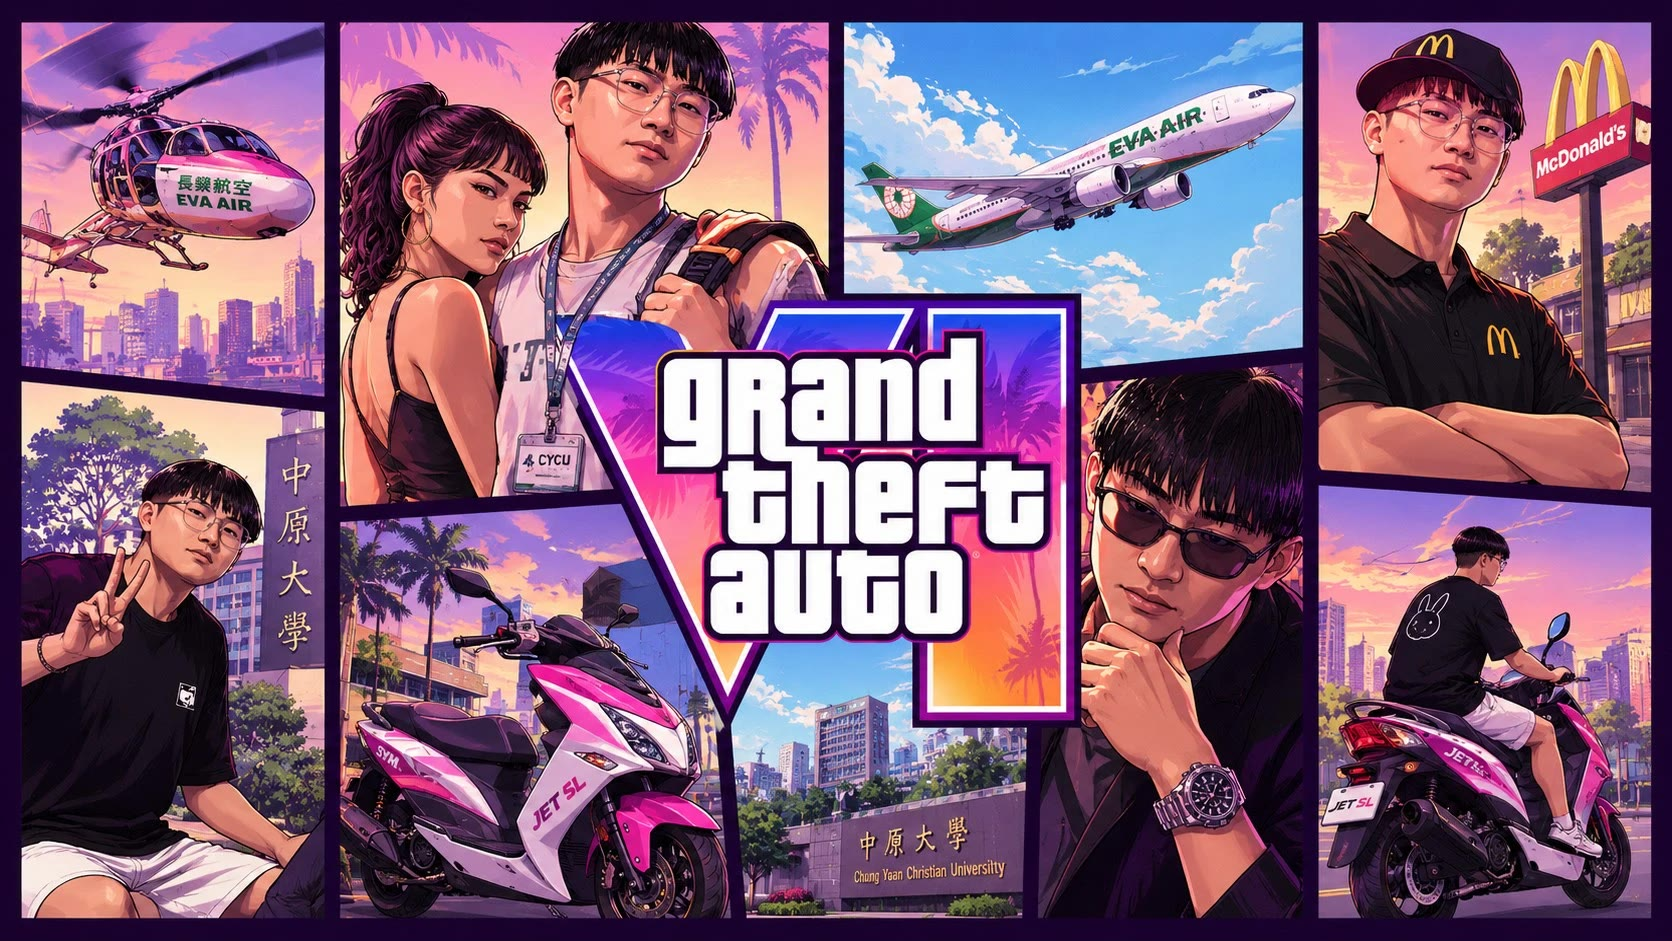
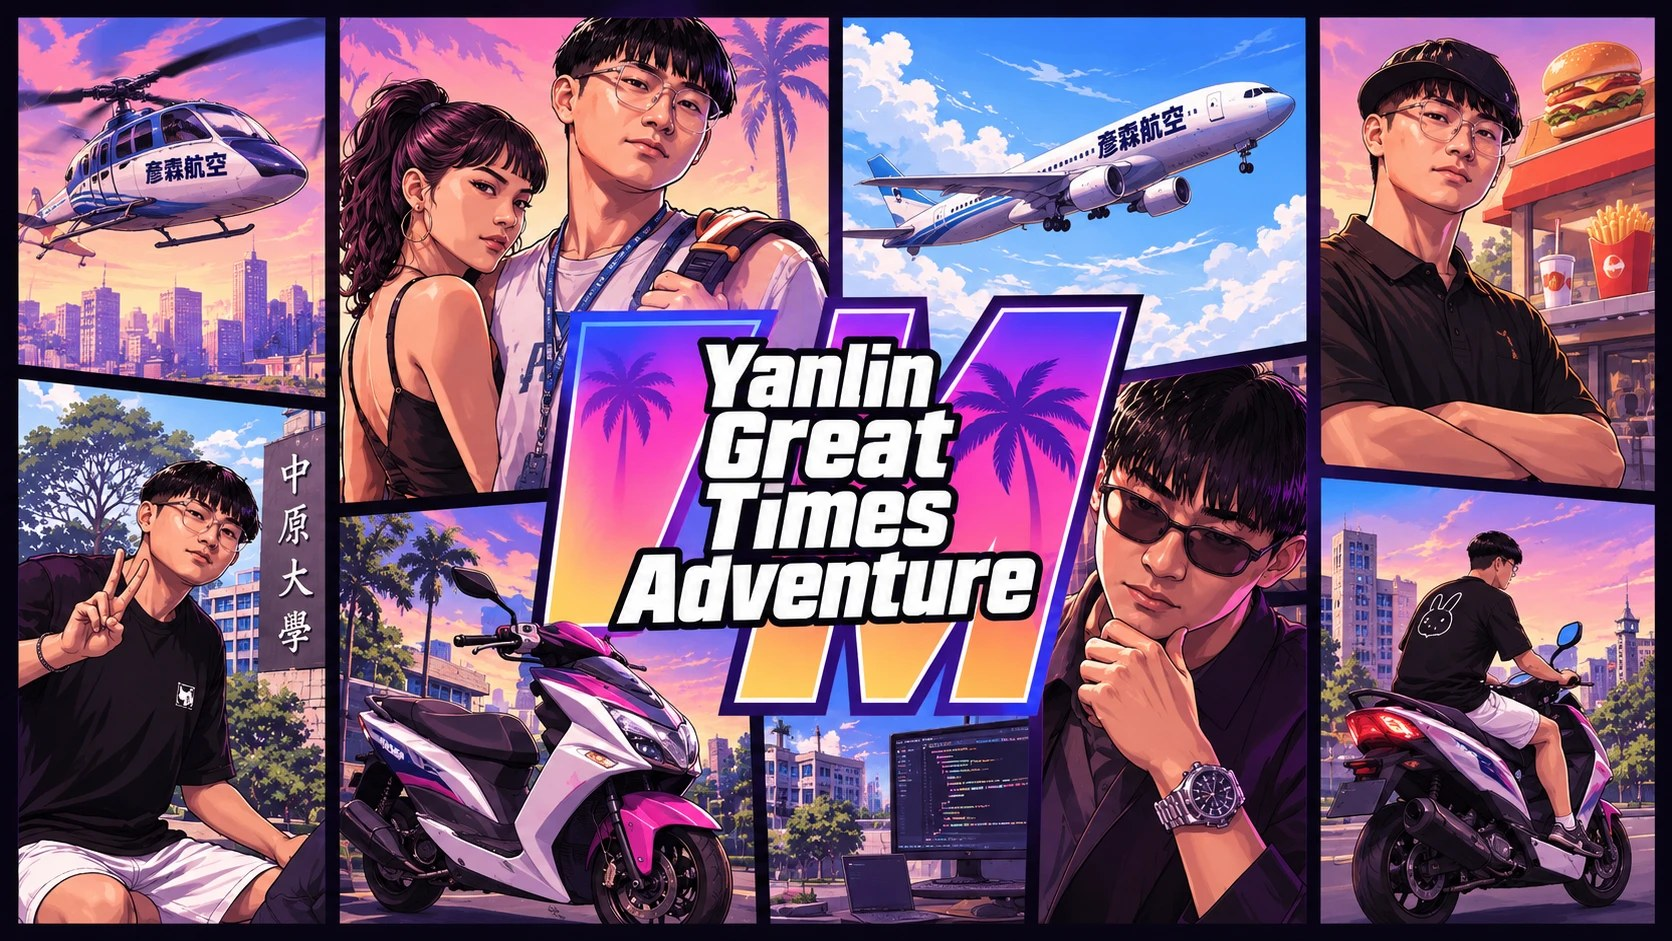
feat: 新封面圖、Wiki 寫上 Great Times Adventure、標題畫面改成 Wiki 按鈕
- assets/loading.jpg 換成新封面（Yanlin Great Times Adventure）：載入畫面、README、手機相簿、Wiki 備用封面都跟著換
- Wiki 頁首與概覽寫明 YanlinGTA 的 GTA = Great Times Adventure
- 標題畫面「🗳 關於彥霖」換成「📖 彥霖GTA WIKI」，開新分頁到 wiki/；移除不再使用的 ABOUT 內容與樣式（地圖與地形資料授權仍在標題畫面底部）

diff --git a/src/core/MenuManager.js b/src/core/MenuManager.js
@@ -28,15 +28,6 @@ const setLoad = (p, t) => {
   if (tx) tx.textContent = `${t || '載入中 LOADING'} · ${Math.round(p * 100)}%`;
 };
 
-const ABOUT_HTML = `<div class="about">
-<p><b style="font-size:20px;color:#ffd23f">彥霖 Yanlin</b>　第34屆 中原大學 資訊管理學系 系學會會長候選人</p>
-<p style="font-size:20px;font-weight:900">資管要贏　票投彥霖</p>
-<p>《中原順起來》是彥霖的競選宣傳小遊戲。整個地圖依照真實的中原大學與周邊街區（中北路、實踐路、新中北路、中原夜市）搭建，建築位置與高度來自 OpenStreetMap。</p>
-<p>在遊戲裡，你就是彥霖：</p>
-<ul><li>騎著粉白色 SYM JET SL 穿梭校園送傳單</li><li>走進資管系館上樓、進教室，用電腦教室的電腦上網、玩踩地雷</li><li>去活動中心的麥當勞點餐，或從櫃台後面的員工入口打工值班、幫同學出餐賺錢拉票</li><li>坐進警衛室值班</li><li>一早衝去中原夜市那條街買早餐</li><li>對路上的同學發傳單拉票</li><li>在學生活動中心發表政見</li></ul>
-<p>真實的投票日，資管要贏，票投 <b style="color:#ffd23f">彥霖</b> 🗳✌</p>
-<p style="color:#a9adbf;font-size:12px">地圖資料 © OpenStreetMap contributors，依 ODbL 授權使用。<br>地形資料：內政部 20m 網格數值地形模型（政府資料開放授權條款第1版）。</p></div>`;
-
 export class MenuManager {
   constructor(game) {
     this.game = game;
@@ -98,7 +89,8 @@ export class MenuManager {
     onClick('btnControls', () => this.showControls());
     onClick('btnSettings', () => this.openSettings());
     onClick('btnBench', () => game.bench?.openDialog());
-    onClick('btnAbout', () => this.modal('關於彥霖', ABOUT_HTML, 'ABOUT'));
+    // 遊戲百科 Wiki（yanlin-gta.com/wiki/，wiki/build.mjs）：開新分頁，遊戲留在原本的分頁
+    onClick('btnWiki', () => window.open('wiki/', '_blank', 'noopener'));
     onClick('modalClose', () => this.closeModal());
     onClick('videoClose', () => this.closeVideo());
     // the pause menu (and the settings / controls / delete-save pages opened from it) also closes with Esc or a click on

diff --git a/index.html b/index.html
@@ -42,7 +42,7 @@
       <button class="menu-btn" id="btnControls"><span>⌨ 操作說明</span><small>CONTROLS</small></button>
       <button class="menu-btn" id="btnSettings"><span>⚙ 設定 / 音樂</span><small>SETTINGS</small></button>
       <button class="menu-btn" id="btnBench"><span>📊 效能測試</span><small>BENCHMARK</small></button>
-      <button class="menu-btn" id="btnAbout"><span>🗳 關於彥霖</span><small>ABOUT</small></button>
+      <button class="menu-btn" id="btnWiki"><span>📖 彥霖GTA WIKI</span><small>角色・任務・開發團隊</small></button>
       <div class="credit">地圖資料 © OpenStreetMap contributors (ODbL) · 地形資料：內政部 20m 網格數值地形模型（政府資料開放授權條款第1版） · 中原大學 桃園市中壢區中北路200號</div>
     </div>
     <div class="title-right">

diff --git a/wiki/style.css b/wiki/style.css
@@ -229,6 +229,13 @@ main {
   margin: 0 0 22px;
   color: var(--muted);
 }
+.gta-name {
+  margin: 0 0 4px;
+  font-size: 17px;
+}
+.gta-name b {
+  color: var(--pink);
+}
 .prose {
   max-width: 760px;
 }

diff --git a/src/styles/style.css b/src/styles/style.css
@@ -806,12 +806,6 @@ body.cinema #aim {
   gap: 8px;
   margin-top: 6px;
 }
-.about p {
-  margin-bottom: 8px;
-}
-.about ul {
-  margin: 6px 0 10px 20px;
-}
 
 /* ending */
 #ending {

diff --git a/docs/guide/deployment.md b/docs/guide/deployment.md
@@ -65,6 +65,7 @@ Wiki 是遊戲網站底下的靜態頁面，原始檔在 `wiki/`，由 `wiki/bui
 
 - **部署**：`npm run build` 時 `vite.config.js` 會自動產生 `dist/wiki/`，跟遊戲一起由 GitHub Pages 發布，不需要額外設定；`check:dist` 會確認 `wiki/index.html` 有產出。
 - **本機預覽**：`npm run build` 後 `npm run preview`，開 `http://localhost:4173/wiki/`；只改 Wiki 時可以 `npm run wiki:build` 單獨重產 `dist/wiki/`。Wiki 的「開始玩」用相對路徑 `../` 回到遊戲。
+- **遊戲裡的入口**：標題畫面的「📖 彥霖GTA WIKI」按鈕（取代原本的「關於彥霖」，`src/core/MenuManager.js` 的 `btnWiki`）開新分頁到 `wiki/`。YanlinGTA 的 GTA = **Great Times Adventure**，Wiki 頁首與概覽都有寫。
 - **首頁宣傳片**：封面放 README 那支 58 秒宣傳片（`docs/media/promo/yanlin-promo-58s-v2.mp4`，約 47 MB），build 時複製成 `dist/wiki/media/promo.mp4`；`preload="none"`，先顯示 poster、按播放才下載。換影片時改 `wiki/build.mjs` 的檔名。
 - **網頁圖示與加入主畫面**：Wiki 有自己的圖示（`wiki/icons/`：favicon、192／512、iPhone 用的 apple-touch-icon）與 `wiki/manifest.webmanifest`（`start_url` 為 `./`，加到主畫面後開回 `/wiki/`）；build 時複製到 `dist/wiki/`。
 - **補社群連結**：改 `wiki/people.json` 的 `ig`／`linkedin`（完整 `https://` 網址，留空顯示「待補」）；AI 設 `social: false` 不顯示。
